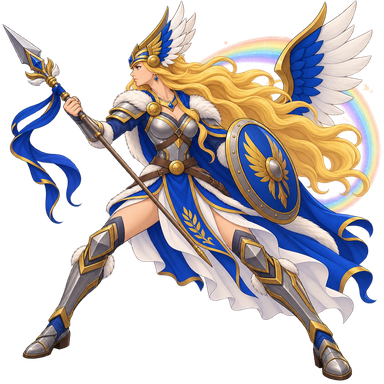
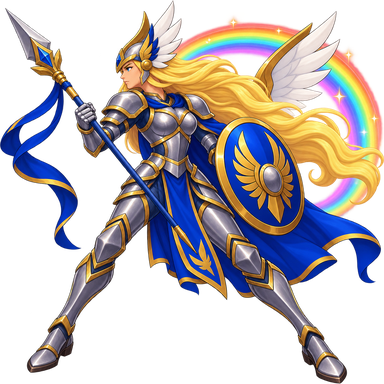
feat: valkiria updated. Frigg changed for Forseti

diff --git a/src/main.tsx b/src/main.tsx
@@ -15,7 +15,7 @@ import frostGiantImage from './assets/players/frost-giant.png';
 import helaImage from './assets/players/hela.png';
 import thorImage from './assets/players/thor.png';
 
-import friggaImage from './assets/players/frigg.png';
+import forsetiImage from './assets/players/forseti.png';
 import lokiImage from './assets/players/loki.png';
 import odinImage from './assets/players/odin.png';
 import skadiImage from './assets/players/skadi.png';
@@ -47,7 +47,7 @@ import lokiSound from './assets/sounds/loki.mp3';
 import skadiSound from './assets/sounds/skadi.mp3';
 import odinSound from './assets/sounds/odin.mp3';
 import valkyrieSound from './assets/sounds/valkiria.mp3';
-import friggaSound from './assets/sounds/frigg.mp3';
+import forsetiSound from './assets/sounds/forseti.mp3';
 import defeatSound from './assets/sounds/defeat.mp3';
 import drawSound from './assets/sounds/draw.mp3';
 import ambienceSound from './assets/sounds/ambience.mp3';
@@ -247,13 +247,13 @@ const THOR_WARRIORS: Warrior[] = [
     sound: valkyrieSound,
   },
    {
-    id: 'Frigga',
-    name: 'FRIGGA',
-    title: 'GODDESS OF MARRIAGE AND FAMILY',
-    description: 'The wife of Odin and the queen of Asgard. Frigga is associated with marriage, fertility, and the domestic sphere.',
+    id: 'forseti',
+    name: 'FORSETI',
+    title: 'GOD OF TRUTH AND JUSTICE',
+    description: 'The god of truth and justice in Norse mythology. Forseti is known for his fairness and his role in mediating disputes.',
     unlockAt: 16,
-    image: friggaImage,
-    sound: friggaSound,
+    image: forsetiImage,
+    sound: forsetiSound,
   },
   {
     id: 'thor',
